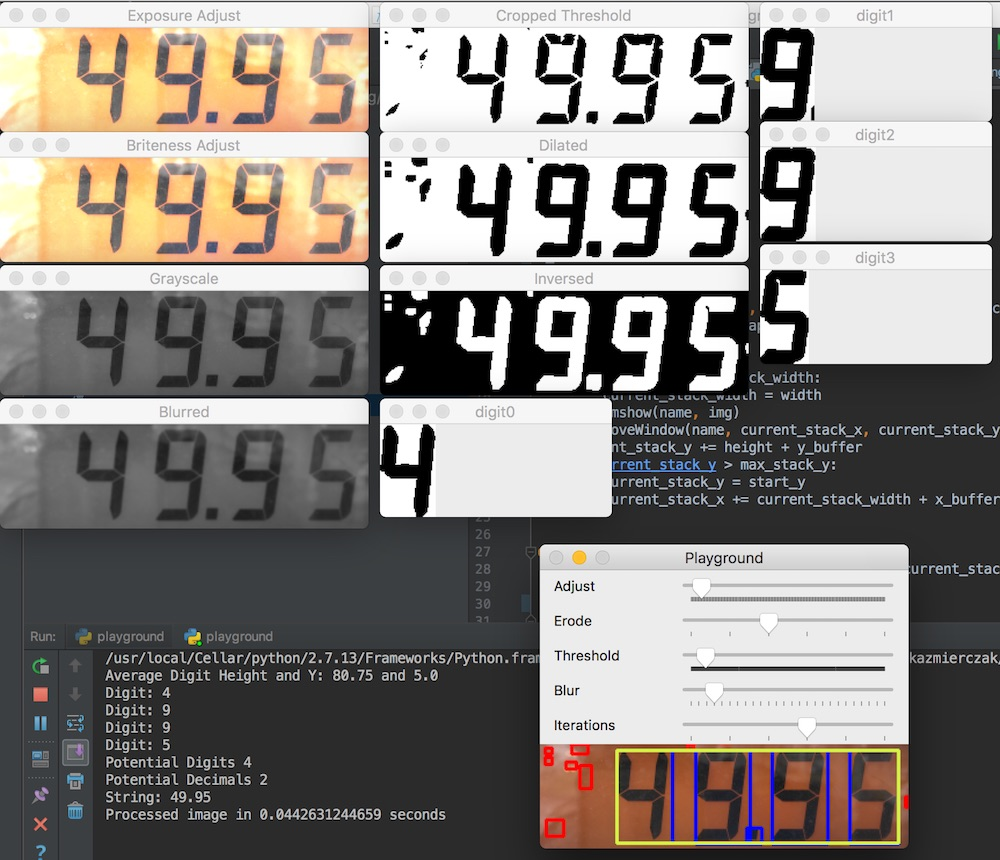
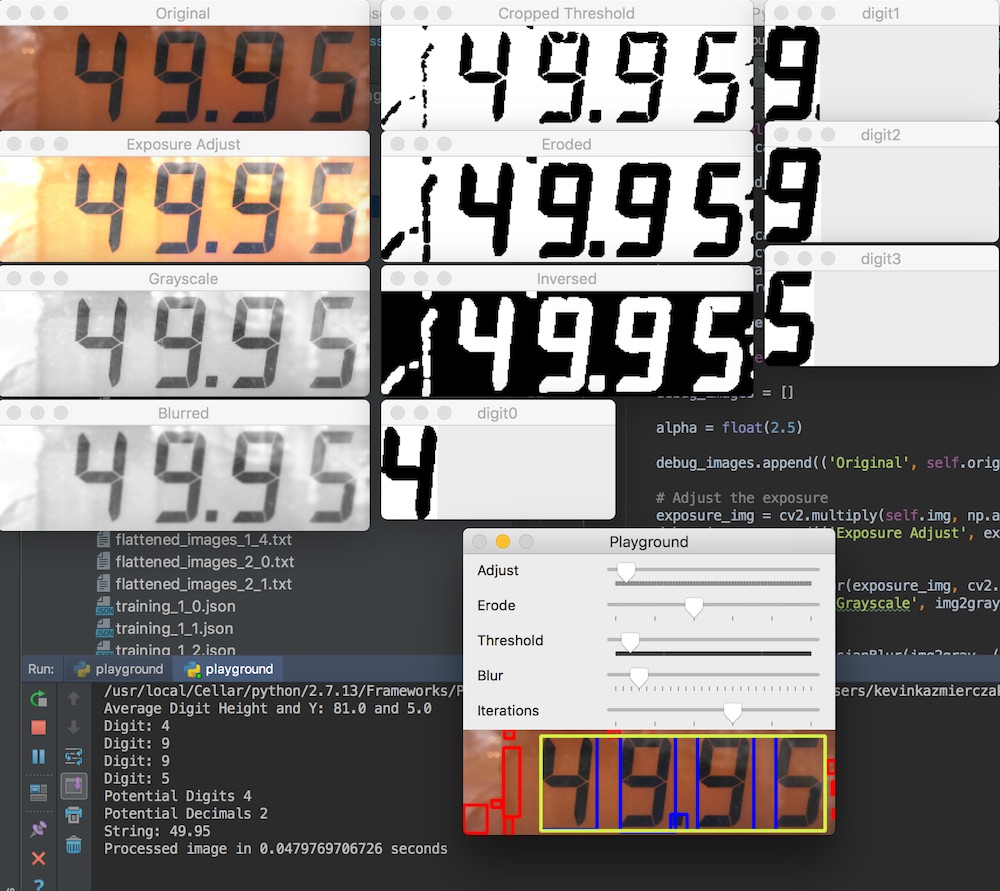
Updates screenshot

diff --git a/ImageProcessing/FrameProcessor.py b/ImageProcessing/FrameProcessor.py
@@ -51,18 +51,15 @@ class FrameProcessor:
         debug_images = []
 
         alpha = float(2.5)
-        beta = float(0)
+
+        debug_images.append(('Original', self.original))
 
         # Adjust the exposure
         exposure_img = cv2.multiply(self.img, np.array([alpha]))
         debug_images.append(('Exposure Adjust', exposure_img))
 
-        # Adjust the brightness
-        brite_img = cv2.add(exposure_img, np.array([beta]))
-        debug_images.append(('Briteness Adjust', brite_img))
-
         # Convert to grayscale
-        img2gray = cv2.cvtColor(self.img, cv2.COLOR_BGR2GRAY)
+        img2gray = cv2.cvtColor(exposure_img, cv2.COLOR_BGR2GRAY)
         debug_images.append(('Grayscale', img2gray))
 
         # Blur to reduce noise

diff --git a/DisplayUtils/TileDisplay.py b/DisplayUtils/TileDisplay.py
@@ -5,7 +5,7 @@ current_stack_y = start_y
 current_stack_x = 0
 current_stack_width = 0
 min_width = 200
-max_stack_y = 1000
+max_stack_y = 450
 y_buffer = 25
 x_buffer = 10
 
